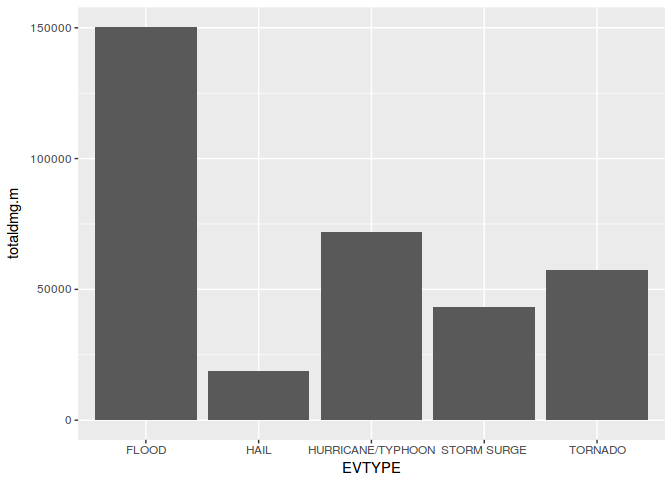
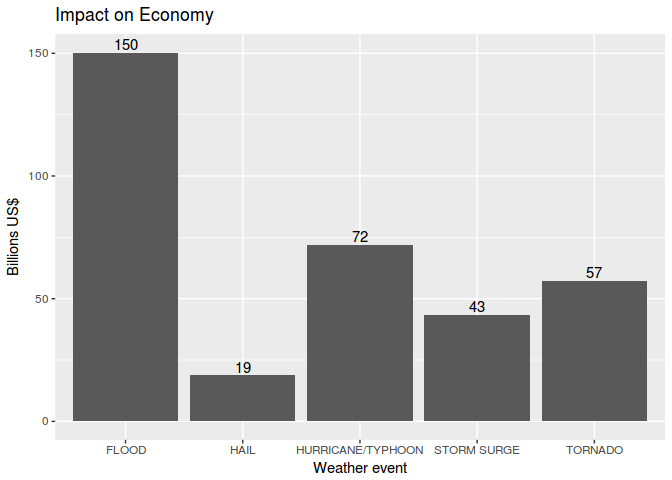
Reorder bar plot descending using reorder()

diff --git a/inst/notebooks/01-main.md b/inst/notebooks/01-main.md
@@ -432,57 +432,61 @@ We convert the thousands to millions of US$ and only one variable, the total eco
 
 
 ```r
-byDamage.m <- byDamage %>%
+byDamage.mm <- byDamage %>%
   
   summarize(propdmg.k = sum(PROPDMG.K), cropdmg.k = sum(CROPDMG.K)) %>%
   mutate(propdmg.m = propdmg.k / 1000, cropdmg.m = cropdmg.k / 1000) %>%
   select(EVTYPE, propdmg.m, cropdmg.m) %>%
-  mutate(totaldmg.m = propdmg.m + cropdmg.m) %>%
+  mutate(totaldmg.mm = propdmg.m + cropdmg.m) %>%
+  mutate(totaldmg.bi = totaldmg.mm / 1000) %>%
   # arrange(desc(propdmg.m), desc(cropdmg.m))
-  arrange(desc(totaldmg.m))
+  arrange(desc(totaldmg.mm))
 
-byDamage.m
+byDamage.mm
 ```
 
 ```
-# A tibble: 985 × 4
-              EVTYPE  propdmg.m  cropdmg.m totaldmg.m
-              <fctr>      <dbl>      <dbl>      <dbl>
-1              FLOOD 144657.710  5661.9685 150319.678
-2  HURRICANE/TYPHOON  69305.840  2607.8728  71913.713
-3            TORNADO  56937.160   414.9531  57352.114
-4        STORM SURGE  43323.536     0.0050  43323.541
-5               HAIL  15732.267  3025.9545  18758.221
-6        FLASH FLOOD  16140.812  1421.3171  17562.129
-7            DROUGHT   1046.106 13972.5660  15018.672
-8          HURRICANE  11868.319  2741.9100  14610.229
-9        RIVER FLOOD   5118.945  5029.4590  10148.405
-10         ICE STORM   3944.928  5022.1135   8967.041
+# A tibble: 985 × 5
+              EVTYPE  propdmg.m  cropdmg.m totaldmg.mm totaldmg.bi
+              <fctr>      <dbl>      <dbl>       <dbl>       <dbl>
+1              FLOOD 144657.710  5661.9685  150319.678  150.319678
+2  HURRICANE/TYPHOON  69305.840  2607.8728   71913.713   71.913713
+3            TORNADO  56937.160   414.9531   57352.114   57.352114
+4        STORM SURGE  43323.536     0.0050   43323.541   43.323541
+5               HAIL  15732.267  3025.9545   18758.221   18.758221
+6        FLASH FLOOD  16140.812  1421.3171   17562.129   17.562129
+7            DROUGHT   1046.106 13972.5660   15018.672   15.018672
+8          HURRICANE  11868.319  2741.9100   14610.229   14.610229
+9        RIVER FLOOD   5118.945  5029.4590   10148.405   10.148404
+10         ICE STORM   3944.928  5022.1135    8967.041    8.967041
 # ... with 975 more rows
 ```
 
 Get the top 5 and top 10 causes of economic damage.
 
 ```r
-byDamage.m.top5 <- byDamage.m[1:5, ]
-byDamage.m.top5
+byDamage.mm.top5 <- byDamage.mm[1:5, ]
+byDamage.mm.top5
 ```
 
 ```
-# A tibble: 5 × 4
-             EVTYPE propdmg.m cropdmg.m totaldmg.m
-             <fctr>     <dbl>     <dbl>      <dbl>
-1             FLOOD 144657.71 5661.9685  150319.68
-2 HURRICANE/TYPHOON  69305.84 2607.8728   71913.71
-3           TORNADO  56937.16  414.9531   57352.11
-4       STORM SURGE  43323.54    0.0050   43323.54
-5              HAIL  15732.27 3025.9545   18758.22
+# A tibble: 5 × 5
+             EVTYPE propdmg.m cropdmg.m totaldmg.mm totaldmg.bi
+             <fctr>     <dbl>     <dbl>       <dbl>       <dbl>
+1             FLOOD 144657.71 5661.9685   150319.68   150.31968
+2 HURRICANE/TYPHOON  69305.84 2607.8728    71913.71    71.91371
+3           TORNADO  56937.16  414.9531    57352.11    57.35211
+4       STORM SURGE  43323.54    0.0050    43323.54    43.32354
+5              HAIL  15732.27 3025.9545    18758.22    18.75822
 ```
 
 
 ```r
-ggplot(byDamage.m.top5, aes(EVTYPE, totaldmg.m)) +
-  geom_bar(stat = "identity")
+ggplot(byDamage.mm.top5, aes(EVTYPE, totaldmg.bi)) +
+  geom_bar(stat = "identity") +
+  labs(y = "Billions US$", x = "Weather event") +
+  ggtitle("Impact on Economy") +
+  geom_text(aes(label=round(totaldmg.bi, 0), vjust = -0.25))
 ```
 
 ![](01-main_files/figure-html/unnamed-chunk-21-1.png)<!-- -->
@@ -619,35 +623,36 @@ byYearSummary <- byYearEvent %>%
   group_by(year) %>%
   summarize(fatalities = sum(fatalities), 
             injuries = sum(injuries),
-            damage.mm = sum(propdmg.M) + sum(cropdmg.M)
+            damage.mm = sum(propdmg.M) + sum(cropdmg.M),
+            damage.bb = damage.mm / 1000
             )
 
 byYearSummary
 ```
 
 ```
-# A tibble: 62 × 4
-    year fatalities injuries damage.mm
-   <dbl>      <dbl>    <dbl>     <dbl>
-1   1950         70      659  34.48165
-2   1951         34      524  65.50599
-3   1952        230     1915  94.10224
-4   1953        519     5131 596.10470
-5   1954         36      715  85.80532
-6   1955        129      926  82.66063
-7   1956         83     1355 116.91235
-8   1957        193     1976 224.38889
-9   1958         67      535 128.99461
-10  1959         58      734  87.45304
+# A tibble: 62 × 5
+    year fatalities injuries damage.mm  damage.bb
+   <dbl>      <dbl>    <dbl>     <dbl>      <dbl>
+1   1950         70      659  34.48165 0.03448165
+2   1951         34      524  65.50599 0.06550599
+3   1952        230     1915  94.10224 0.09410224
+4   1953        519     5131 596.10470 0.59610470
+5   1954         36      715  85.80532 0.08580532
+6   1955        129      926  82.66063 0.08266063
+7   1956         83     1355 116.91235 0.11691235
+8   1957        193     1976 224.38889 0.22438889
+9   1958         67      535 128.99461 0.12899461
+10  1959         58      734  87.45304 0.08745304
 # ... with 52 more rows
 ```
 
 
 ```r
-q1 <- ggplot(byYearSummary, aes(x = year, y = damage.mm)) +
+q1 <- ggplot(byYearSummary, aes(x = year, y = damage.bb)) +
   geom_point() + 
   ggtitle("Impact on economy 1950-2011") + 
-  labs(y = "MM US$") +
+  labs(y = "Billions US$") +
   theme(plot.title = element_text(hjust=0.5))
 q2 <- ggplot(byYearSummary, aes(x = year, y = fatalities)) +
   geom_point() +
